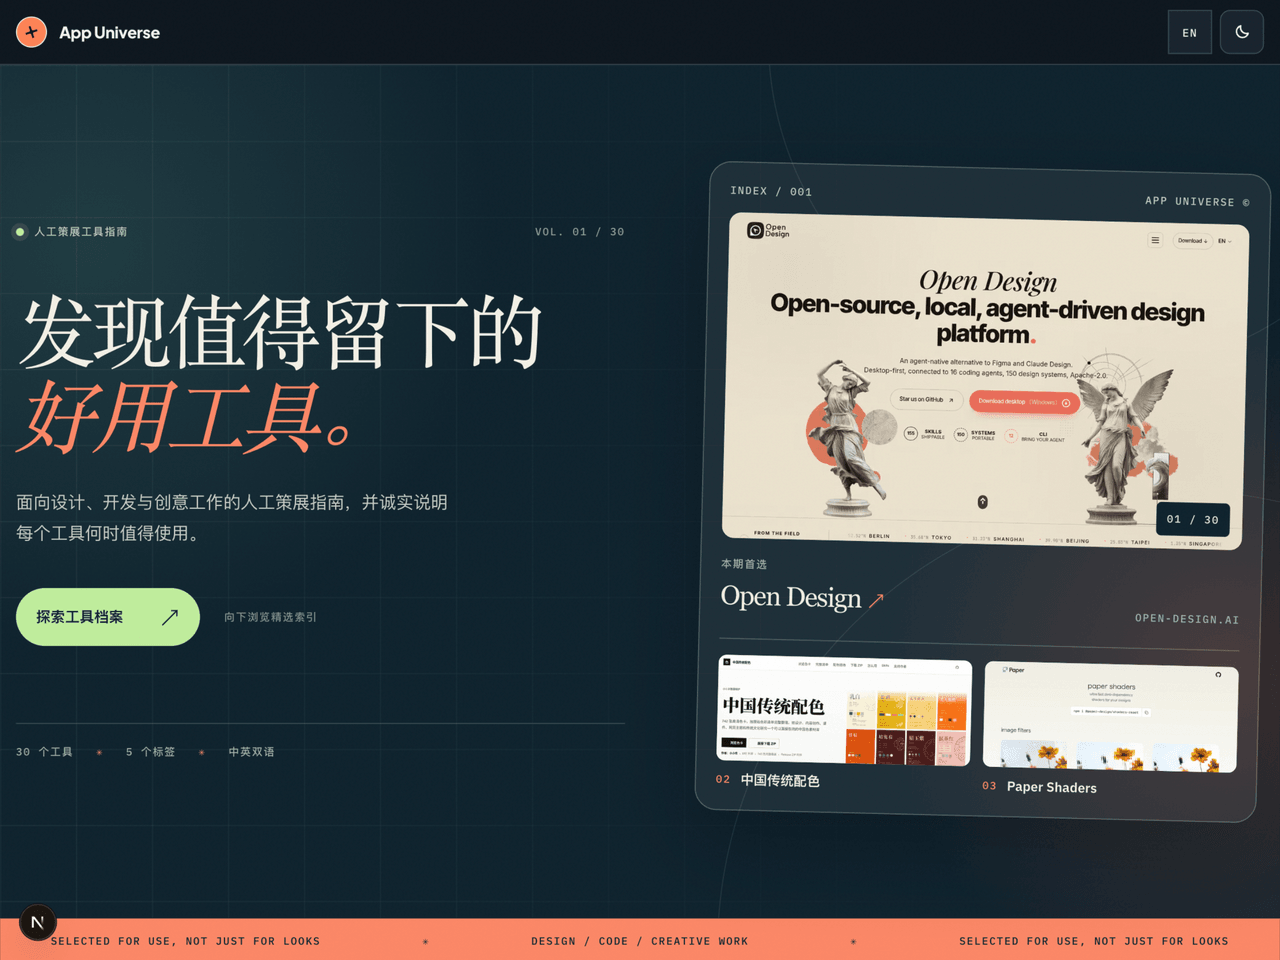
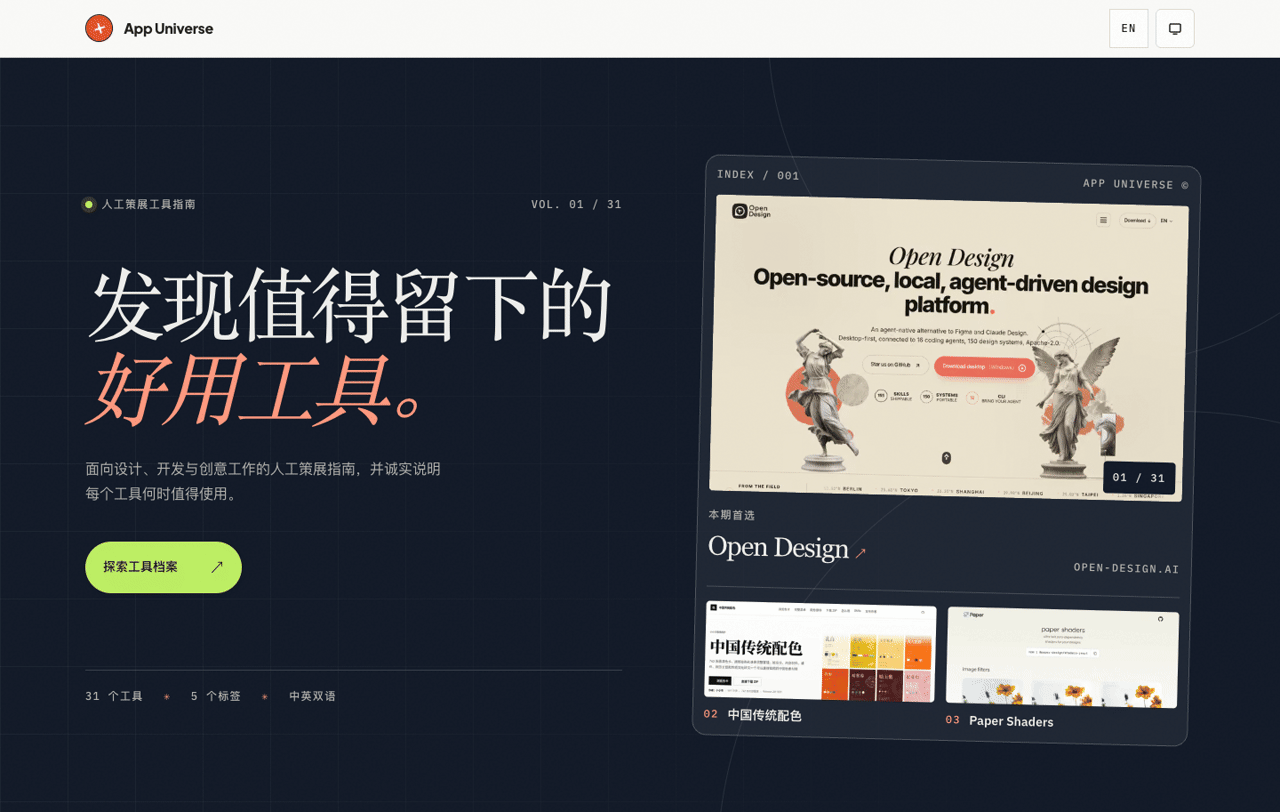
docs: 首页截图改用生产构建重拍，补界面说明

diff --git a/README.md b/README.md
@@ -3,8 +3,10 @@
 人工精选的双语（EN/中文）工具目录站，线上在 [app-universe.vercel.app](https://app-universe.vercel.app)。Next.js 16 App Router + React 19 + Tailwind v4，部署在 Vercel；收录数据全部在 `src/data/tools.ts`。`/puzzles` 是不上架的静态彩蛋页（noindex）。
 
 <p align="center">
-  <img src="docs/images/home.png" width="880" alt="App Universe 首页：左侧导语，右侧本期精选卡片">
+  <img src="docs/images/home.png" width="880" alt="App Universe 首页：左侧中文导语与探索按钮，右侧本期精选 Open Design 卡片与两张次选预览">
 </p>
+
+首页左栏是当期导语与筛选入口，右栏把本期精选放大成一张可点卡片，下排露出两张次选；右下角 `01 / 31` 与底部 `31 个工具 · 5 个标签 · 中英双语` 都是从收录数据实时算出的计数。右上角可在中英文之间切换，两种语言各有独立 URL。
 
 ## 常用命令
 
